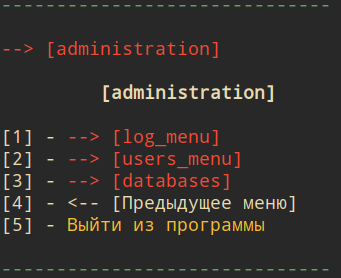
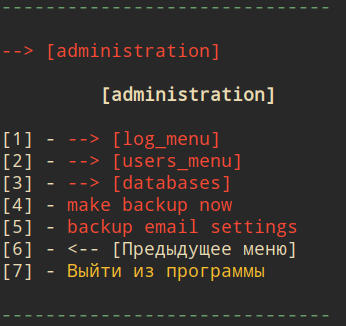
udate README to current program version

diff --git a/README.md b/README.md
@@ -83,14 +83,19 @@ Password: 0000
 ### 2. Main menu
 ![main_menu](readme_screenshots/main_menu.png)
 
-From this menu you have access to different sub-menus (depend on user access) and basic functions such are: [8] - 'workers telephone numbers', [9] - 'change password', [10] - 'exit program'. Red menus are 'admin-only'
+In header of main menu you may see different remainder that depend on user 'access'.
+
+From this menu you have access to different sub-menus (depend on user access) and basic functions such are: [6] - 'workers telephone numbers', [7] - 'change password', [8] - 'exit program'. Red menus are 'admin-only'
+
 ### 3. Admin menus
 ![admin_menu](readme_screenshots/admin_menu.png)
 
 This menus give you access to:
-1. create/delete/edit new user
-2. read/delete/search in logs
+1. read/delete/search in logs
+2. create/delete/edit new user
 3. create/show company structure
+4. make backup of all data files
+5. edit email notification and backup settings
 ### 4. Workers menu [5]
 ![workers_menu](readme_screenshots/workers_menu.png)
 
@@ -101,20 +106,31 @@ In this menu u can:
 4. Return worker from archive
 5. Edit worker
 6. Edit list of special workers category
+7. Show anniversary workers
 ### 5. Statistic menu
 ![statistic_menu](readme_screenshots/statistic.png)
 
 In this menu u can:
 1. Create main career report
 2. Edit main career report
-3. Show statistic of career results by year
-4. Create drill instrument report
-5. Show statistic of drill instrument by year
-### 5. Finansial  menu
+3. Show statistic of career results
+4. Show statistic of career rockmass
+5. Create drill instrument report
+6. Show statistic of drill instrument
+### 5. Financial  menu
 ![finance_menu](readme_screenshots/finance.png)
 
 In this menu u can:
 1. Count workers salary
+### 5. Financial  menu
+![mechanics_menu](readme_screenshots/mechanics_menu.png)
+
+In this menu u can:
+1. Create repare report
+2. Edit repare report
+3. Show KTG and KTI statistic
+4. Show Stand reasons statistic
+5. Working with maintenance calendar
 
 ## Authors
 
